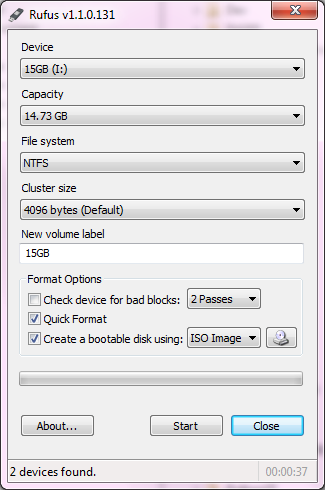
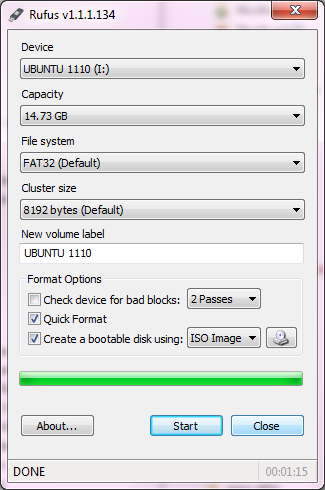
v1.1.1 update

diff --git a/index.html b/index.html
@@ -63,21 +63,22 @@
 			<p>Rufus is a small utility that helps format and create bootable USB flash drives, such as USB keys/pendrives, memory sticks, etc.</p>
 			<p>It can be be especially useful for cases where:
 				<ul>
-					<li>you need to create USB installation media, such as a Windows 7 installation USB drive</li>
+					<li>you need to create USB installation media from bootable ISOs (Windows, Linux, etc.)</li>
 					<li>you need to work on a system that doesn't have an OS installed</li>
 					<li>you need to flash a BIOS or other firmware from DOS</li>
-					<li>you want to run a DOS low-level utility</li>
+					<li>you want to run a low-level utility</li>
 				</ul>
 			</p>
 			<p>Despite its small size, Rufus provides you with everything you need!</p>
-			<p>Oh, and Rufus is <b>fast</b>. For instance it's about twice as fast as <a href="http://unetbootin.sourceforge.net/">UNetbootin</a> or <a href="http://www.microsoftstore.com/store/msstore/html/pbPage.Help_Win7_usbdvd_dwnTool">Windows 7 USB/DVD download tool</a>, on the creation of a Windows 7 USB installation drive from an ISO <a href="#ref1"><sup>(1)</sup></a>.</p>
+			<p>Oh, and Rufus is <b>fast</b>. For instance it's about twice as fast as <a href="http://unetbootin.sourceforge.net/">UNetbootin</a>, <a href="http://www.pendrivelinux.com/universal-usb-installer-easy-as-1-2-3">Universal USB Installer</a> or <a href="http://www.microsoftstore.com/store/msstore/html/pbPage.Help_Win7_usbdvd_dwnTool">Windows 7 USB download tool</a>, on the creation of a Windows 7 USB installation drive from an ISO. It is also marginally faster on the creation of Linux bootable USB from ISOs <a href="#ref1"><sup>(1)</sup></a>.</p>
 			<p>Finally, please remember that once formatted, your drive is still usable as before to transfer data: it doesn't have to be dedicated for DOS or installation only.</p>
 			<h2>Download</h2>
 			<p>Two versions of Rufus are provided for your convenience: one with <a href="http://www.freedos.org">FreeDOS</a> support and one without.</p>
-			<p><ul><li><a href="https://github.com/downloads/pbatard/rufus/rufus_v1.0.7f.exe">Rufus v1.0.7 with FreeDOS support</a> (346 KB), or <a href="https://github.com/downloads/pbatard/rufus/rufus_v1.1.0f.exe">v1.1.0 Beta</a> (with ISO support, 376 KB).</li>
-				<li><a href="https://github.com/downloads/pbatard/rufus/rufus_v1.0.7.exe">Rufus v1.0.7 <b>without</b> FreeDOS support</a> (85 KB), or <a href="https://github.com/downloads/pbatard/rufus/rufus_v1.1.0.exe">v1.1.0 Beta</a> (with ISO support, 114 KB).</li>
-				<li><a href="https://github.com/pbatard/rufus/downloads">Other versions</a>.</li></ul></p>
-			<p>Apart from the ability to select FreeDOS rather than the default Microsoft DOS, these versions are exactly the same. If you use a non-US keyboard, FreeDOS is recommended as it supports more more keyboard layouts. In both cases, if you choose DOS, Rufus will try to set the keyboard locale for you.</p>
+			<p><ul><li><a href="https://github.com/downloads/pbatard/rufus/rufus_v1.1.1f.exe">Rufus v1.1.1 with FreeDOS support</a> (410 KB)</li>
+				<li><a href="https://github.com/downloads/pbatard/rufus/rufus_v1.1.1.exe">Rufus v1.1.1 <b>without</b> FreeDOS support</a> (148 KB)</li>
+				<li><a href="https://github.com/pbatard/rufus/downloads">Other versions</a></li></ul></p>
+			<p>Apart from the ability to select FreeDOS rather than the default Microsoft DOS, these versions are exactly the same. If you use a non-US keyboard, FreeDOS is recommended as it supports more more keyboard layouts. In both cases, if you choose DOS, Rufus will try to set the keyboard locale for you.<br />
+			If you use plan to use ISO images only, any version will do.</p>
 			<p>Once downloaded, the application is ready to use &mdash; no installation or other files are necessary.</p>
 			<h2>System Requirements</h2>
 			Windows XP or later, 32 or 64 bit doesn't matter.<br />If elevation is required, you will be prompted for it.
@@ -91,6 +92,10 @@
 			<p>Please use the github <a href="https://github.com/pbatard/rufus/issues">issue tracker</a>. Or you can <a href="mailto:pete@akeo.ie?subject=Rufus">send an e-mail</a>.</p>
 			<h2>Versions</h2>
 			<ul>
+				<li>Version 1.1.1 (2012.02.16):<ul>
+					<li>ISO image support (syslinux) - targeted at Linux installation ISOs</li>
+					<li>ISO fixes and UI improvements</li>
+				</ul></li>
 				<li>Version 1.1.0 Beta (2012.02.08):<ul>
 					<li>ISO image support (NTFS, bootmgr only - targeted at Windows installation ISOs)</li>
 				</ul></li>
@@ -128,23 +133,31 @@
 				More information on how to access and compile the source can also be found at the <a href="https://github.com/pbatard/rufus">github project</a>.<br />
 				If you are a developer, you are very much encouraged to tinker with it and submit patches to add the features you want!
 			</p>
-			<h2>Upcoming features</h2>
-			<p>The following is a list of feature(s) that <b>may</b> be added in a next version of Rufus.<br />
-			Suggestions are also welcome.
-				<ul>
-					<li>Linux ISO support, with Syslinux/Isolinux</li>
-					<li>Allow the preservation of existing partitions</li>
-				</ul>
-			</p>
 			<a name="ref1">&nbsp;</a>
 			<h2>(1) Speed comparison between Rufus and other applications</h2>
-			<p>The following tests carried out on a Windows 7 x64 Core 2 duo/4 GB RAM platform, with an USB 3.0 controller and a <a href="http://www.adata.com.tw/?action=product_feature&cid=1&piid=119">16 GB USB 3.0 ADATA S102 flash drive</a>.<br />
-			The ISO image was <i>en_windows_7_ultimate_with_sp1_x64_dvd_618240.iso</i> from the MSDN.
+			<p>The following tests carried out on a Windows 7 x64 Core 2 duo/4 GB RAM platform, with an USB 3.0 controller and a <a href="http://www.adata.com.tw/?action=product_feature&cid=1&piid=119">16 GB USB 3.0 ADATA S102 flash drive</a>.</p>
+			<p>&bull; Windows 7 x64: <i>en_windows_7_ultimate_with_sp1_x64_dvd_618240.iso</i>
 			<table class="reference" style="width:70%">
-			<tr><td>Windows 7 USB/DVD Download Tool v1.0.30</td><td>8 mins 10s</td></tr>
+			<tr><td width="80%">Windows 7 USB/DVD Download Tool v1.0.30</td><td>8 mins 10s</td></tr>
+			<tr><td>Universal USB Installer v1.8.7.5</td><td>7 mins 10s</td></tr>
 			<tr><td>UNetbootin v1.1.1.1</td><td>6 mins 20s</td></tr>
-			<tr><td><b>Rufus v1.1.0</b></td><td><b>3 mins 25s</b></td></tr>
+			<tr><td><b>Rufus v1.1.1</b></td><td><b>3 mins 25s</b></td></tr>
 			</table></p>
+			<p>&bull; Ubuntu 11.10 x86: <i>ubuntu-11.10-desktop-i386.iso</i>
+			<table class="reference" style="width:70%">
+			<tr><td width="80%">UNetbootin v1.1.1.1</td><td>1 min 45s</td></tr>
+			<tr><td>Universal USB Installer v1.8.7.5</td><td>1 min 20s</td></tr>
+			<tr><td><b>Rufus v1.1.1</b></td><td><b>1 min 15s</b></td></tr>
+			</table></p>
+			<p>&bull; Slackware 13.37 x86: <i>slackware-13.37-install-dvd.iso</i>
+			<table class="reference" style="width:70%">
+			<tr><td width="80%">UNetbootin v1.1.1.1</td><td>&gt;60 mins</td></tr>
+			<tr><td>Universal USB Installer v1.8.7.5</td><td>24 mins 35s</td></tr>
+			<tr><td><b>Rufus v1.1.1</b></td><td><b>20 mins 15s</b></td></tr>
+			</table></p>
+			<a name="ref1">&nbsp;</a>
+			<h2>(2) Non exhaustive list of ISOs Rufus has been tested against</h2>
+			<p>Windows Vista, Windows 7, <a href="http://msdn.microsoft.com/en-us/windows/apps/br229516">Windows 8 Developer Preview<a/>, <a href="http://www.slackware.com/">Slackware</a>, <a href="http://www.archlinux.org/">Arch Linux<a/>, <a href="http://www.ubuntu.com/">Ubuntu</a>, <a href="http://www.ultimatebootcd.com/">Ultimate Boot CD<a/>, <a href="http://www.freedos.org/">FreeDOS<a/>, <a href="http://pogostick.net/~pnh/ntpasswd/">NT Password Registry Editor</a>, <a href="http://www.centos.org/">CentOS</a>, etc.</p>			
  		<div class="footer">
 		Copyright (c) 2011-2012 Pete Batard<br/>
 		USB icon by <a href="http://pcunleashed.com/">PC Unleashed</a>
